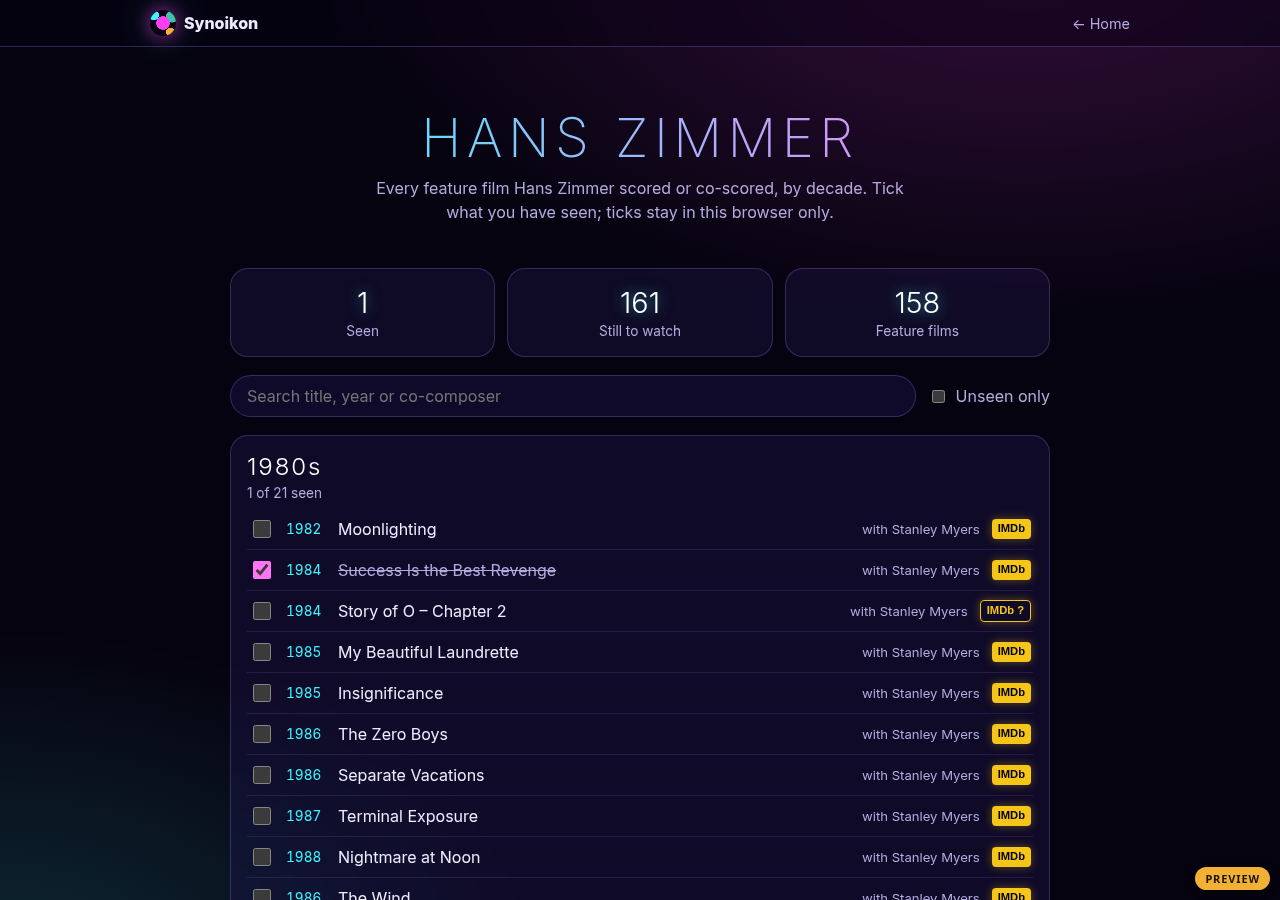
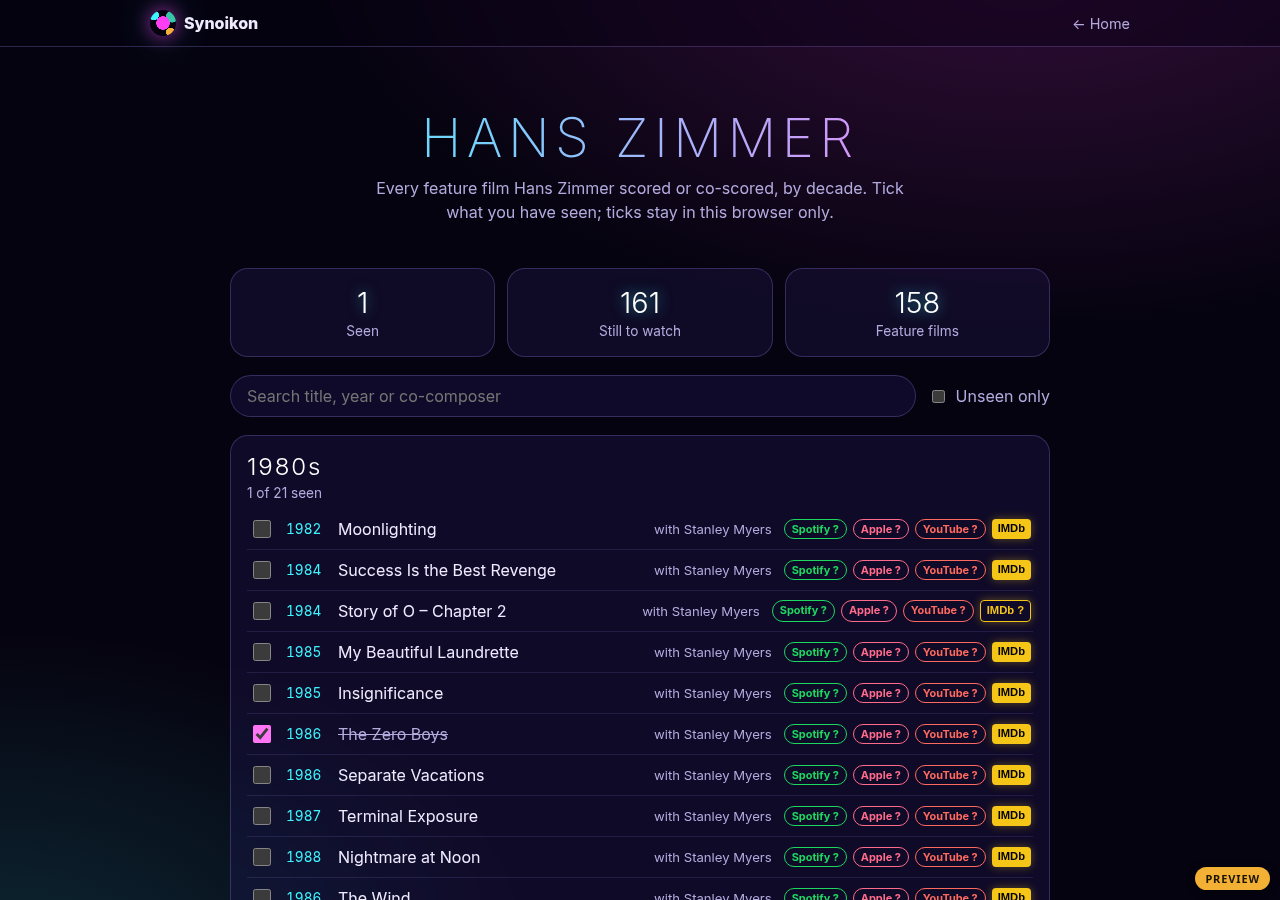
Zimmer tracker: soundtrack links (Spotify 16 exact via Wikidata P2205, Apple Music 74 exact via iTunes Search/Wikidata P2281, YouTube search); fallbacks marked '?'

diff --git a/home/zimmer/index.html b/home/zimmer/index.html
@@ -35,6 +35,12 @@
     .imdb { margin-left: auto; font: 800 .7rem/1 Arial, sans-serif; color: #000 !important; background: #f5c518; border-radius: 4px; padding: 4px 6px; text-decoration: none; box-shadow: 0 0 10px rgba(245,197,24,.35); }
     .imdb.s { background: transparent; color: #f5c518 !important; border: 1px solid #f5c518; }
     .imdb:hover, .imdb:focus-visible { box-shadow: 0 0 16px rgba(245,197,24,.8); outline: none; }
+    .lk { margin-left: auto; display: inline-flex; gap: 6px; flex-wrap: wrap; }
+    .lk .imdb { margin-left: 0; }
+    .mu { font: 700 .68rem/1 Inter, system-ui, sans-serif; border-radius: 999px; padding: 4px 7px; text-decoration: none; color: #fff !important; }
+    .mu.sp { background: #1db954; color: #04130a !important; } .mu.am { background: #fa2d55; } .mu.yt { background: #e62117; }
+    .mu.s { background: transparent !important; border: 1px solid currentColor; } .mu.sp.s { color: #1ed760 !important; } .mu.am.s { color: #ff6b8a !important; } .mu.yt.s { color: #ff6a5f !important; }
+    .mu:hover, .mu:focus-visible { box-shadow: 0 0 12px rgba(255,255,255,.35); outline: none; }
     .empty { color: var(--muted); text-align: center; }
     .brand + a { color: var(--muted); font-size: .9rem; text-decoration: none; }
   </style>
@@ -59,17 +65,18 @@
       <label><input type="checkbox" id="unseen"> <span data-i18n="unseen">Unseen only</span></label>
     </div>
     <div id="list"></div>
-    <p class="credit"><span data-i18n="credit">Film list from</span> <a href="https://en.wikipedia.org/wiki/Hans_Zimmer_discography" rel="noopener">Wikipedia: Hans Zimmer discography</a>, <a href="https://creativecommons.org/licenses/by-sa/4.0/" rel="noopener">CC BY-SA 4.0</a>. <span data-i18n="imdbC">Links go to IMDb; “IMDb ?” opens a search.</span> <span data-i18n="state">Status: November 2026.</span></p>
+    <p class="credit"><span data-i18n="credit">Film list from</span> <a href="https://en.wikipedia.org/wiki/Hans_Zimmer_discography" rel="noopener">Wikipedia: Hans Zimmer discography</a>, <a href="https://creativecommons.org/licenses/by-sa/4.0/" rel="noopener">CC BY-SA 4.0</a>. <span data-i18n="imdbC">Links go to IMDb and to the soundtrack on Spotify, Apple Music and YouTube; a “?” opens a search.</span> <span data-i18n="state">Status: November 2026.</span></p>
   </main>
   <footer class="foot"><span>© Synoikon</span><a href="../impressum/">Impressum</a><a href="../datenschutz/" data-i18n="priv">Privacy</a></footer>
   <script>
 const FILMS = [["Moonlighting",1982,"Stanley Myers"],["Success Is the Best Revenge",1984,"Stanley Myers"],["Story of O – Chapter 2",1984,"Stanley Myers"],["My Beautiful Laundrette",1985,"Stanley Myers"],["Insignificance",1985,"Stanley Myers"],["The Zero Boys",1986,"Stanley Myers"],["Separate Vacations",1986,"Stanley Myers"],["Terminal Exposure",1987,"Stanley Myers"],["Nightmare at Noon",1988,"Stanley Myers"],["The Wind",1986,"Stanley Myers"],["The Nature of the Beast",1988,"Stanley Myers"],["The Fruit Machine",1988,"Stanley Myers"],["A World Apart",1988,""],["Taffin",1988,"Stanley Myers"],["Paperhouse",1988,"Stanley Myers"],["Rain Man",1988,""],["Burning Secret",1988,""],["Twister",1989,""],["Black Rain",1989,""],["Diamond Skulls",1989,""],["Driving Miss Daisy",1989,""],["Chicago Joe and the Showgirl",1990,""],["Bird on a Wire",1990,""],["Fools of Fortune",1990,""],["Days of Thunder",1990,""],["Pacific Heights",1990,""],["Green Card",1990,""],["Backdraft",1991,""],["Thelma & Louise",1991,""],["Regarding Henry",1991,""],["Where Sleeping Dogs Lie",1992,"Mark Mancina"],["K2",1991,"Chaz Jankel"],["Radio Flyer",1992,""],["The Power of One",1992,""],["A League of Their Own",1992,""],["Toys",1992,"Trevor Horn"],["Point of No Return",1993,""],["Younger and Younger",1993,""],["Calendar Girl",1993,""],["True Romance",1993,""],["Cool Runnings",1993,""],["The House of the Spirits",1993,""],["I'll Do Anything",1994,""],["Renaissance Man",1994,""],["The Lion King",1994,""],["Drop Zone",1994,""],["Crimson Tide",1995,""],["Beyond Rangoon",1995,""],["Nine Months",1995,""],["Something to Talk About",1995,"Graham Preskett"],["Two Deaths",1995,""],["The Whole Wide World",1996,"Harry Gregson-Williams"],["Broken Arrow",1996,""],["Muppet Treasure Island",1996,""],["The Rock",1996,"Nick Glennie-Smith"],["The Fan",1996,""],["The Preacher's Wife",1996,""],["Smilla's Sense of Snow",1997,"Harry Gregson-Williams"],["The Peacemaker",1997,""],["As Good as It Gets",1997,""],["The Prince of Egypt",1998,""],["The Thin Red Line",1998,""],["Chill Factor",1999,"John Powell"],["An Everlasting Piece",2000,""],["Mission: Impossible 2",2000,""],["The Road to El Dorado",2000,"John Powell"],["Gladiator",2000,"Lisa Gerrard"],["Black Hawk Down",2001,""],["Riding in Cars with Boys",2001,""],["Pearl Harbor",2001,""],["Hannibal",2001,""],["Invincible",2001,"Klaus Badelt"],["The Pledge",2001,"Klaus Badelt"],["Spirit: Stallion of the Cimarron",2002,""],["The Country Bears",2002,""],["The Ring",2002,""],["The Last Samurai",2003,""],["Something's Gotta Give",2003,""],["Matchstick Men",2003,""],["Tears of the Sun",2003,""],["Spanglish",2004,""],["Laura's Star",2004,"Nick Glennie-Smith & Henning Lohner"],["King Arthur",2004,""],["Thunderbirds",2004,""],["Shark Tale",2004,""],["The Weather Man",2005,"James S. Levine"],["The Little Polar Bear 2: The Mysterious Island",2005,"Nick Glennie-Smith"],["Madagascar",2005,""],["Batman Begins",2005,"James Newton Howard"],["Pirates of the Caribbean: Dead Man's Chest",2006,""],["The Da Vinci Code",2006,""],["The Holiday",2006,""],["Pirates of the Caribbean: At World's End",2007,""],["The Simpsons Movie",2007,""],["Road to Fame",2008,""],["Kung Fu Panda",2008,"John Powell"],["The Dark Knight",2008,"James Newton Howard"],["Madagascar: Escape 2 Africa",2008,"will.i.am"],["The Burning Plain",2008,"Omar Rodríguez-López"],["Frost/Nixon",2008,""],["Angels & Demons",2009,""],["Sherlock Holmes",2009,""],["It's Complicated",2009,"Heitor Pereira"],["Inception",2010,""],["Megamind",2010,"Lorne Balfe"],["How Do You Know",2010,""],["Henri 4",2010,"Henry Jackman"],["Rango",2011,""],["Pirates of the Caribbean: On Stranger Tides",2011,""],["Kung Fu Panda 2",2011,"John Powell"],["The Dilemma",2011,"Lorne Balfe"],["Sherlock Holmes: A Game of Shadows",2011,""],["Madagascar 3: Europe's Most Wanted",2012,""],["The Dark Knight Rises",2012,""],["Rush",2013,""],["Man of Steel",2013,""],["The Lone Ranger",2013,""],["Mr. Morgan's Last Love",2013,""],["12 Years a Slave",2013,""],["Son of God",2014,"Lorne Balfe and Lisa Gerrard"],["The Amazing Spider-Man 2",2014,"The Magnificent Six"],["Winter's Tale",2014,"Rupert Gregson-Williams"],["Interstellar",2014,""],["Chappie",2015,""],["The Little Prince",2015,"Richard Harvey and Camille"],["Freeheld",2015,"Johnny Marr"],["Woman in Gold",2015,"Martin Phipps"],["Kung Fu Panda 3",2016,""],["Batman v Superman: Dawn of Justice",2016,"Junkie XL"],["The Last Face",2016,""],["Inferno",2016,""],["Hidden Figures",2016,"Pharrell Williams and Benjamin Wallfisch"],["The Boss Baby",2017,"Steve Mazzaro"],["Pirates of the Caribbean: Dead Men Tell No Tales",2017,"themes only, score by Geoff Zanelli"],["Dunkirk",2017,""],["Blade Runner 2049",2017,"Benjamin Wallfisch"],["Widows",2018,""],["Dark Phoenix",2019,""],["The Lion King",2019,""],["The SpongeBob Movie: Sponge on the Run",2020,"Steve Mazzaro"],["Hillbilly Elegy",2020,"David Fleming"],["Wonder Woman 1984",2020,""],["The Boss Baby: Family Business",2021,"Steve Mazzaro"],["Dune",2021,""],["The Survivor",2021,""],["No Time to Die",2021,""],["Army of Thieves",2021,"Steve Mazzaro"],["The Unforgivable",2021,"David Fleming"],["Top Gun: Maverick",2022,"Harold Faltermeyer and Lady Gaga"],["The Son",2022,""],["Are You There God? It's Me, Margaret.",2023,""],["The Creator",2023,""],["Dune: Part Two",2024,""],["Kung Fu Panda 4",2024,"Steve Mazzaro"],["Eden",2024,""],["Blitz",2024,""],["F1",2025,""],["Ella McCay",2025,""]];
 const DOCS = [["The Last Days",1998,""],["Jealous of the Birds",2011,""],["Brave Miss World",2013,""],["Rebuilding Paradise",2020,"Lorne Balfe"]];
 const IMDB = {"12 Years a Slave|2013":"tt2024544","A League of Their Own|1992":"tt0104694","A World Apart|1988":"tt0096464","An Everlasting Piece|2000":"tt0218182","Angels & Demons|2009":"tt0808151","Are You There God? It's Me, Margaret.|2023":"tt9185206","Army of Thieves|2021":"tt13024674","As Good as It Gets|1997":"tt0119822","Backdraft|1991":"tt0101393","Batman Begins|2005":"tt0372784","Batman v Superman: Dawn of Justice|2016":"tt2975590","Beyond Rangoon|1995":"tt0112495","Bird on a Wire|1990":"tt0099141","Black Hawk Down|2001":"tt0265086","Black Rain|1989":"tt0096933","Blade Runner 2049|2017":"tt1856101","Blitz|2024":"tt15939198","Brave Miss World|2013":"tt2514298","Broken Arrow|1996":"tt0115759","Burning Secret|1988":"tt0094816","Calendar Girl|1993":"tt0106505","Chappie|2015":"tt1823672","Chicago Joe and the Showgirl|1990":"tt0099250","Chill Factor|1999":"tt0163579","Cool Runnings|1993":"tt0106611","Crimson Tide|1995":"tt0112740","Dark Phoenix|2019":"tt6565702","Days of Thunder|1990":"tt0099371","Diamond Skulls|1989":"tt0097158","Driving Miss Daisy|1989":"tt0097239","Drop Zone|1994":"tt0109676","Dune: Part Three|2026":"tt31378509","Dune: Part Two|2024":"tt15239678","Dune|2021":"tt1160419","Dunkirk|2017":"tt5013056","Eden|2024":"tt23149780","Ella McCay|2025":"tt30096221","F1|2025":"tt16311594","Fools of Fortune|1990":"tt0099594","Freeheld|2015":"tt1658801","Frost/Nixon|2008":"tt0870111","Gladiator|2000":"tt0172495","Green Card|1990":"tt0099699","Hannibal|2001":"tt0212985","Henri 4|2010":"tt1270766","Hidden Figures|2016":"tt4846340","Hillbilly Elegy|2020":"tt6772802","How Do You Know|2010":"tt1341188","I'll Do Anything|1994":"tt0110097","Inception|2010":"tt1375666","Inferno|2016":"tt3062096","Insignificance|1985":"tt0089343","Interstellar|2014":"tt0816692","Invincible|2001":"tt0245171","It's Complicated|2009":"tt1230414","Jealous of the Birds|2011":"tt1531683","K2|1991":"tt0102178","King Arthur|2004":"tt0349683","Kung Fu Panda 2|2011":"tt1302011","Kung Fu Panda 3|2016":"tt2267968","Kung Fu Panda 4|2024":"tt21692408","Kung Fu Panda|2008":"tt0441773","Laura's Star|2004":"tt0416908","Madagascar 3: Europe's Most Wanted|2012":"tt1277953","Madagascar: Escape 2 Africa|2008":"tt0479952","Madagascar|2005":"tt0351283","Man of Steel|2013":"tt0770828","Matchstick Men|2003":"tt0325805","Megamind|2010":"tt1001526","Mission: Impossible 2|2000":"tt0120755","Moonlighting|1982":"tt0084354","Mr. Morgan's Last Love|2013":"tt1838603","Muppet Treasure Island|1996":"tt0117110","My Beautiful Laundrette|1985":"tt0091578","Nightmare at Noon|1988":"tt0100261","Nine Months|1995":"tt0113986","No Time to Die|2021":"tt2382320","Pacific Heights|1990":"tt0100318","Paperhouse|1988":"tt0098061","Pearl Harbor|2001":"tt0213149","Pirates of the Caribbean: At World's End|2007":"tt0449088","Pirates of the Caribbean: Dead Man's Chest|2006":"tt0383574","Pirates of the Caribbean: Dead Men Tell No Tales|2017":"tt1790809","Pirates of the Caribbean: On Stranger Tides|2011":"tt1298650","Point of No Return|1993":"tt0107843","Radio Flyer|1992":"tt0105211","Rain Man|1988":"tt0095953","Ramayana: Part 1|2026":"tt27988879","Ramayana: Part 2|2027":"tt34464688","Rango|2011":"tt1192628","Rebuilding Paradise|2020":"tt9735350","Regarding Henry|1991":"tt0102768","Renaissance Man|1994":"tt0110971","Riding in Cars with Boys|2001":"tt0200027","Road to Fame|2008":"tt1049948","Rush|2013":"tt1979320","Separate Vacations|1986":"tt0091923","Shark Tale|2004":"tt0307453","Sherlock Holmes: A Game of Shadows|2011":"tt1515091","Sherlock Holmes|2009":"tt0988045","Smilla's Sense of Snow|1997":"tt0120152","Something to Talk About|1995":"tt0114496","Something's Gotta Give|2003":"tt0337741","Son of God|2014":"tt3210686","Spanglish|2004":"tt0371246","Spirit: Stallion of the Cimarron|2002":"tt0166813","Success Is the Best Revenge|1984":"tt0088200","Taffin|1988":"tt0096211","Tears of the Sun|2003":"tt0314353","Terminal Exposure|1987":"tt0094122","The Amazing Spider-Man 2|2014":"tt1872181","The Boss Baby: Family Business|2021":"tt6932874","The Boss Baby|2017":"tt3874544","The Burning Plain|2008":"tt1068641","The Country Bears|2002":"tt0276033","The Creator|2023":"tt11858890","The Da Vinci Code|2006":"tt0382625","The Dark Knight Rises|2012":"tt1345836","The Dark Knight|2008":"tt0468569","The Dilemma|2011":"tt1578275","The Fan|1996":"tt0116277","The Fruit Machine|1988":"tt0095183","The Holiday|2006":"tt0457939","The House of the Spirits|1993":"tt0107151","The Last Days|1998":"tt0174852","The Last Face|2016":"tt3286560","The Last Samurai|2003":"tt0325710","The Lion King|1994":"tt0110357","The Lion King|2019":"tt6105098","The Little Polar Bear 2: The Mysterious Island|2005":"tt0401559","The Little Prince|2015":"tt1754656","The Lone Ranger|2013":"tt1210819","The Nature of the Beast|1988":"tt0272747","The Peacemaker|1997":"tt0119874","The Pledge|2001":"tt0237572","The Power of One|1992":"tt0105159","The Preacher's Wife|1996":"tt0117372","The Prince of Egypt|1998":"tt0120794","The Ring|2002":"tt0298130","The Road to El Dorado|2000":"tt0138749","The Rock|1996":"tt0117500","The Simpsons Movie|2007":"tt0462538","The Son|2022":"tt14458442","The SpongeBob Movie: Sponge on the Run|2020":"tt4823776","The Survivor|2021":"tt9242528","The Thin Red Line|1998":"tt0120863","The Unforgivable|2021":"tt11233960","The Weather Man|2005":"tt0384680","The Whole Wide World|1996":"tt0118163","The Wind|1986":"tt0094327","The Zero Boys|1986":"tt0092288","Thelma & Louise|1991":"tt0103074","Thunderbirds|2004":"tt0167456","Top Gun: Maverick|2022":"tt1745960","Toys|1992":"tt0105629","True Romance|1993":"tt0108399","Twister|1989":"tt0096321","Two Deaths|1995":"tt0117999","Where Sleeping Dogs Lie|1992":"tt0105809","Widows|2018":"tt4218572","Winter's Tale|2014":"tt1837709","Woman in Gold|2015":"tt2404425","Wonder Woman 1984|2020":"tt7126948","Younger and Younger|1993":"tt0108636"};
+const MUSIC = {"12 Years a Slave|2013":{"am":"https://music.apple.com/album/730171673","sp":"2GLETs2JWEl74J8LPvECwf"},"An Everlasting Piece|2000":{"am":"https://music.apple.com/album/1443771701"},"Angels & Demons|2009":{"am":"https://music.apple.com/album/312640320"},"Army of Thieves|2021":{"am":"https://music.apple.com/album/1593689854"},"Backdraft|1991":{"am":"https://music.apple.com/album/1765015250"},"Batman Begins|2005":{"am":"https://music.apple.com/album/339335217"},"Batman v Superman: Dawn of Justice|2016":{"am":"https://music.apple.com/album/1454323119"},"Black Hawk Down|2001":{"am":"https://music.apple.com/album/1434910611","sp":"3Eh8eEKS1cYsqCrZw2CyZf"},"Blade Runner 2049|2017":{"am":"https://music.apple.com/album/1291056782"},"Blitz|2024":{"am":"https://music.apple.com/album/1775492572"},"Chappie|2015":{"am":"https://music.apple.com/album/1440792088"},"Crimson Tide|1995":{"am":"https://music.apple.com/album/1452376528"},"Dark Phoenix|2019":{"am":"https://music.apple.com/album/1511043157"},"Days of Thunder|1990":{"sp":"1GCPZH902hpTHqjXF7jQ0s"},"Dune: Part Two|2024":{"am":"https://music.apple.com/album/1732115750"},"Dune|2021":{"am":"https://music.apple.com/album/1583651332"},"Dunkirk|2017":{"am":"https://music.apple.com/album/1454450333"},"Eden|2024":{"am":"https://music.apple.com/album/1843163392"},"Ella McCay|2025":{"am":"https://music.apple.com/album/1857817328"},"Freeheld|2015":{"am":"https://music.apple.com/album/1455252319"},"Frost/Nixon|2008":{"am":"https://music.apple.com/album/1443660692","sp":"7vKw9i8IDjmHYGhaNlENtA"},"Gladiator|2000":{"am":"https://music.apple.com/album/1440563157"},"Green Card|1990":{"am":"https://music.apple.com/album/1444061662"},"Hannibal|2001":{"sp":"6JgvWFkxKiG6Z2rDWZCLGV"},"Henri 4|2010":{"am":"https://music.apple.com/album/362821226"},"Hidden Figures|2016":{"am":"https://music.apple.com/album/1186856721"},"Hillbilly Elegy|2020":{"am":"https://music.apple.com/album/1538614456"},"Inception|2010":{"am":"https://music.apple.com/album/380349905"},"Inferno|2016":{"am":"https://music.apple.com/album/1155459473"},"Interstellar|2014":{"am":"https://music.apple.com/album/1533983552"},"It's Complicated|2009":{"am":"https://music.apple.com/album/1493609849"},"King Arthur|2004":{"am":"https://music.apple.com/album/1444174119"},"Kung Fu Panda 2|2011":{"am":"https://music.apple.com/album/1452858532"},"Kung Fu Panda 3|2016":{"am":"https://music.apple.com/album/1076973938"},"Kung Fu Panda 4|2024":{"am":"https://music.apple.com/album/1732595908"},"Madagascar: Escape 2 Africa|2008":{"sp":"0a6NsOaOzlrubGl3htyVWG"},"Madagascar|2005":{"sp":"7cDEqhpPBkKT7G4xRPkwSn"},"Man of Steel|2013":{"am":"https://music.apple.com/album/1454398377"},"Matchstick Men|2003":{"am":"https://music.apple.com/album/1443723411","sp":"2J0Pf92ILvY9QRKzcrEzRx"},"Megamind|2010":{"am":"https://music.apple.com/album/396247272"},"Mission: Impossible 2|2000":{"am":"https://music.apple.com/album/1521368527","sp":"7cJ4oRwyJ5BU1oj29AquOM"},"Nine Months|1995":{"am":"https://music.apple.com/album/1507813600"},"No Time to Die|2021":{"am":"https://music.apple.com/album/1533265529"},"Pacific Heights|1990":{"am":"https://music.apple.com/album/1443089090"},"Pearl Harbor|2001":{"am":"https://music.apple.com/album/98416611","sp":"6d0LelwtKFd0F0ZfImWWDz"},"Pirates of the Caribbean: At World's End|2007":{"am":"https://music.apple.com/album/1440743443"},"Pirates of the Caribbean: Dead Man's Chest|2006":{"am":"https://music.apple.com/album/1445882013"},"Radio Flyer|1992":{"am":"https://music.apple.com/album/904108070"},"Rain Man|1988":{"am":"https://music.apple.com/album/724500811"},"Rebuilding Paradise|2020":{"am":"https://music.apple.com/album/1537922012"},"Renaissance Man|1994":{"am":"https://music.apple.com/album/1442210974"},"Sherlock Holmes: A Game of Shadows|2011":{"am":"https://music.apple.com/album/1455696582"},"Sherlock Holmes|2009":{"am":"https://music.apple.com/album/342564779"},"Something to Talk About|1995":{"am":"https://music.apple.com/album/1443089762"},"Spirit: Stallion of the Cimarron|2002":{"am":"https://music.apple.com/album/1440870318","sp":"3pDG0vQ5LfL2BQZJJtkbg8"},"The Boss Baby: Family Business|2021":{"am":"https://music.apple.com/album/1571796449"},"The Boss Baby|2017":{"am":"https://music.apple.com/album/1216386203"},"The Creator|2023":{"am":"https://music.apple.com/album/1708191452"},"The Da Vinci Code|2006":{"am":"https://music.apple.com/album/1440768935"},"The Dark Knight Rises|2012":{"am":"https://music.apple.com/album/1454323407"},"The Dark Knight|2008":{"am":"https://music.apple.com/album/284530501"},"The Holiday|2006":{"am":"https://music.apple.com/album/1816017920","sp":"1wJZSN3VrWTR8OcFJ4lp9I"},"The Last Samurai|2003":{"am":"https://music.apple.com/album/3943118"},"The Lion King|1994":{"am":"https://music.apple.com/album/1445732923","sp":"3YA5DdB3wSz4pdfEXoMyRd"},"The Lion King|2019":{"am":"https://music.apple.com/album/1472083270","sp":"7e8y48Z2fkJNGBOKSECCeS"},"The Little Prince|2015":{"sp":"6epIOxXmRWOLlxTjIgKG7k"},"The Lone Ranger|2013":{"am":"https://music.apple.com/album/1443102659"},"The Peacemaker|1997":{"am":"https://music.apple.com/album/1442914657"},"The Preacher's Wife|1996":{"sp":"4GtmXlzXsP67AKOVT8LWKK"},"The Prince of Egypt|1998":{"am":"https://music.apple.com/album/1445666907"},"The Son|2022":{"am":"https://music.apple.com/album/1651935566"},"The SpongeBob Movie: Sponge on the Run|2020":{"am":"https://music.apple.com/album/1562362117"},"The Survivor|2021":{"am":"https://music.apple.com/album/1618815655"},"The Thin Red Line|1998":{"am":"https://music.apple.com/album/212408475"},"The Unforgivable|2021":{"am":"https://music.apple.com/album/1658421955"},"The Weather Man|2005":{"am":"https://music.apple.com/album/1746963418"},"Top Gun: Maverick|2022":{"am":"https://music.apple.com/album/1621817793"},"Widows|2018":{"am":"https://music.apple.com/album/1500499862"},"Winter's Tale|2014":{"am":"https://music.apple.com/album/1454455092"},"Wonder Woman 1984|2020":{"am":"https://music.apple.com/album/1552230196"}};
 const UP = [["The Last Photograph",2026,"Omer Benyamin and Steven Doar"],["Ramayana: Part 1",2026,"A. R. Rahman"],["Dune: Part Three",2026,""],["Ramayana: Part 2",2027,"A. R. Rahman"]];
 (function () {
-  var T = { de: { back: '← Start', sub: 'Jeder Spielfilm, den Hans Zimmer vertont oder mitvertont hat, nach Jahrzehnt. Hake ab, was du gesehen hast; die Haken bleiben nur in diesem Browser.', seen: 'Gesehen', left: 'Noch offen', feat: 'Spielfilme', ph: 'Titel, Jahr oder Mitkomponist suchen', unseen: 'Nur ungesehene', credit: 'Filmliste aus', state: 'Stand: November 2026.', priv: 'Datenschutz', docs: 'Dokumentarfilme', docsCap: 'Nicht in der Spielfilm-Zahl enthalten', up: 'Angekündigt', upCap: 'Noch nicht erschienen (Stand November 2026)', of: ' von ', seenS: ' gesehen', with: 'mit ', none: 'Keine Treffer.', onImdb: 'Auf IMDb öffnen (neuer Tab)', srchImdb: 'Auf IMDb suchen (neuer Tab)', credit: 'Filmliste aus', imdbC: 'Links zu IMDb; „IMDb ?“ öffnet eine Suche.' } };
-  var E = { docs: 'Documentaries', docsCap: 'Not counted in the feature film total', up: 'Upcoming', upCap: 'Announced, not yet released as of November 2026', of: ' of ', seenS: ' seen', with: 'with ', none: 'No matches.', onImdb: 'Open on IMDb (new tab)', srchImdb: 'Search on IMDb (new tab)' };
+  var T = { de: { back: '← Start', sub: 'Jeder Spielfilm, den Hans Zimmer vertont oder mitvertont hat, nach Jahrzehnt. Hake ab, was du gesehen hast; die Haken bleiben nur in diesem Browser.', seen: 'Gesehen', left: 'Noch offen', feat: 'Spielfilme', ph: 'Titel, Jahr oder Mitkomponist suchen', unseen: 'Nur ungesehene', credit: 'Filmliste aus', state: 'Stand: November 2026.', priv: 'Datenschutz', docs: 'Dokumentarfilme', docsCap: 'Nicht in der Spielfilm-Zahl enthalten', up: 'Angekündigt', upCap: 'Noch nicht erschienen (Stand November 2026)', of: ' von ', seenS: ' gesehen', with: 'mit ', none: 'Keine Treffer.', onImdb: 'Auf IMDb öffnen (neuer Tab)', srchImdb: 'Auf IMDb suchen (neuer Tab)', search: 'Suche', credit: 'Filmliste aus', imdbC: 'Links zu IMDb und zum Soundtrack auf Spotify, Apple Music und YouTube; ein „?“ öffnet eine Suche.' } };
+  var E = { docs: 'Documentaries', docsCap: 'Not counted in the feature film total', up: 'Upcoming', upCap: 'Announced, not yet released as of November 2026', of: ' of ', seenS: ' seen', with: 'with ', none: 'No matches.', onImdb: 'Open on IMDb (new tab)', srchImdb: 'Search on IMDb (new tab)', search: 'search' };
   var lang = (navigator.language || 'en').slice(0, 2), t = T[lang] || {};
   function L(k) { return t[k] || E[k]; }
   if (T[lang]) { document.documentElement.lang = lang;
@@ -84,9 +91,14 @@ const UP = [["The Last Photograph",2026,"Omer Benyamin and Steven Doar"],["Ramay
     return (!un.checked || !seen[id(f)]) && (!s || (f[0] + ' ' + f[2] + ' ' + f[1]).toLowerCase().indexOf(s) >= 0); }
   function imdb(f) { var tt = IMDB[id(f)], q = encodeURIComponent(f[0] + ' ' + f[1]);
     return '<a class="imdb' + (tt ? '' : ' s') + '" target="_blank" rel="noopener noreferrer" href="' + (tt ? 'https://www.imdb.com/title/' + tt + '/' : 'https://www.imdb.com/find/?q=' + q + '&s=tt') + '" title="' + (tt ? L('onImdb') : L('srchImdb')) + '" aria-label="' + esc(f[0]) + ' (' + f[1] + '): ' + (tt ? L('onImdb') : L('srchImdb')) + '">IMDb' + (tt ? '' : ' ?') + '</a>'; }
+  function A(cls, href, label, sure, name) { return '<a class="' + cls + (sure ? '' : ' s') + '" target="_blank" rel="noopener noreferrer" href="' + href + '" title="' + label + (sure ? '' : ' (' + L('search') + ')') + '" aria-label="' + esc(name) + ': ' + label + (sure ? '' : ' (' + L('search') + ')') + '">' + cls.split(' ')[1].replace('sp', 'Spotify').replace('am', 'Apple').replace('yt', 'YouTube') + (sure ? '' : ' ?') + '</a>'; }
+  function music(f) { var k = id(f), m = MUSIC[k] || {}, st = encodeURIComponent(f[0] + ' Hans Zimmer'), yq = encodeURIComponent(f[0] + ' Hans Zimmer main theme');
+    return A('mu sp', m.sp ? 'https://open.spotify.com/album/' + m.sp : 'https://open.spotify.com/search/' + st, 'Spotify', !!m.sp, f[0]) +
+      A('mu am', m.am ? m.am : 'https://music.apple.com/search?term=' + st, 'Apple Music', !!m.am, f[0]) +
+      A('mu yt', 'https://www.youtube.com/results?search_query=' + yq, 'YouTube', false, f[0]); }
   function co(f) { return f[2] ? '<span class="co">' + L('with') + esc(f[2]) + '</span>' : ''; }
   function rows(fs) { return fs.filter(match).map(function (f) { var k = id(f), on = !!seen[k];
-    return '<div class="row' + (on ? ' seen' : '') + '"><label><input type="checkbox" data-k="' + esc(k) + '"' + (on ? ' checked' : '') + '><span class="yr">' + f[1] + '</span><span class="ti">' + esc(f[0]) + '</span>' + co(f) + '</label>' + imdb(f) + '</div>'; }).join(''); }
+    return '<div class="row' + (on ? ' seen' : '') + '"><label><input type="checkbox" data-k="' + esc(k) + '"' + (on ? ' checked' : '') + '><span class="yr">' + f[1] + '</span><span class="ti">' + esc(f[0]) + '</span>' + co(f) + '</label><span class="lk">' + music(f) + imdb(f) + '</span></div>'; }).join(''); }
   function card(h, cap, body) { return '<section class="card"><h2>' + h + '</h2><p class="cap">' + cap + '</p>' + body + '</section>'; }
   function render() {
     var all = FILMS.concat(DOCS), n = all.filter(function (f) { return seen[id(f)]; }).length, html = '';
@@ -95,7 +107,7 @@ const UP = [["The Last Photograph",2026,"Omer Benyamin and Steven Doar"],["Ramay
       var fs = FILMS.filter(function (f) { return f[1] >= d && f[1] < d + 10; }), r = rows(fs);
       if (r) html += card(d + 's', fs.filter(function (f) { return seen[id(f)]; }).length + L('of') + fs.length + L('seenS'), r); });
     var r = rows(DOCS); if (r) html += card(L('docs'), L('docsCap'), r);
-    if (!q.value.trim()) html += card(L('up'), L('upCap'), UP.map(function (f) { return '<div class="row" style="cursor:default"><span class="yr">' + f[1] + '</span><span class="ti">' + esc(f[0]) + '</span>' + co(f) + imdb(f) + '</div>'; }).join(''));
+    if (!q.value.trim()) html += card(L('up'), L('upCap'), UP.map(function (f) { return '<div class="row" style="cursor:default"><span class="yr">' + f[1] + '</span><span class="ti">' + esc(f[0]) + '</span>' + co(f) + '<span class="lk">' + music(f) + imdb(f) + '</span></div>'; }).join(''));
     box.innerHTML = html || '<p class="empty">' + L('none') + '</p>';
   }
   box.addEventListener('change', function (e) { var k = e.target.dataset.k; if (!k) return;
